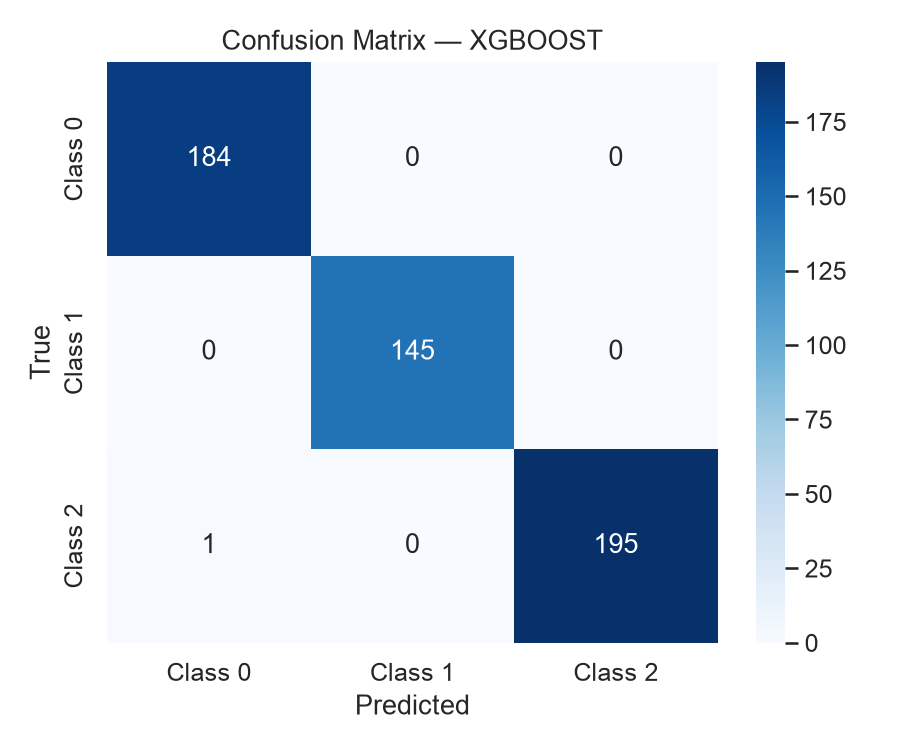
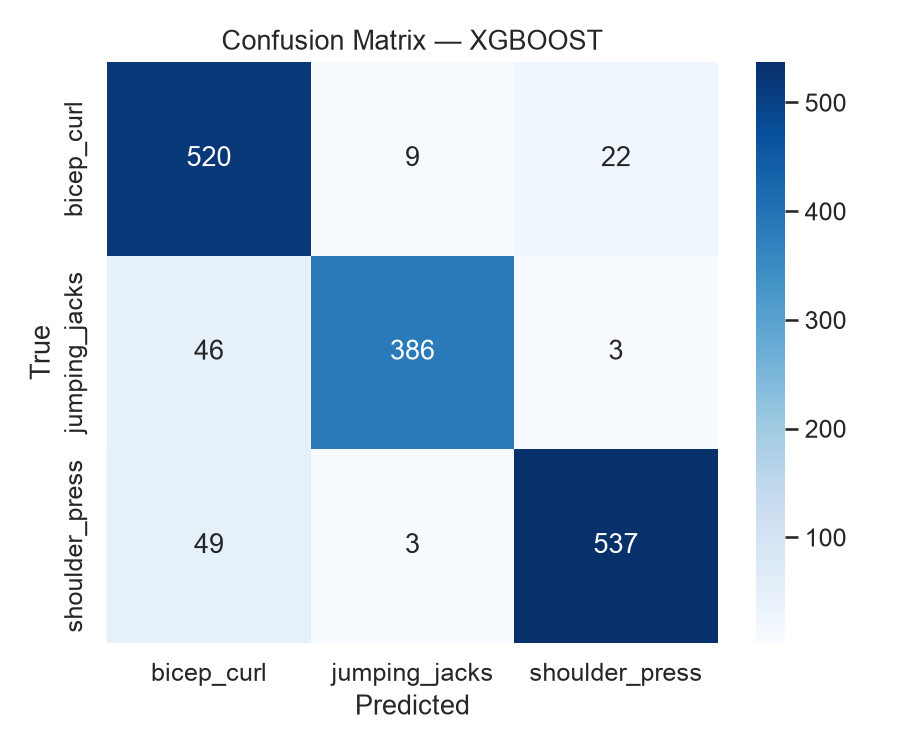
ADD augmentation proves model performance.

diff --git a/src/evaluation/model_performance.py b/src/evaluation/model_performance.py
@@ -3,6 +3,7 @@
 import pickle, warnings
 from pathlib import Path
 import matplotlib
+from sklearn.model_selection import train_test_split
 matplotlib.use("Agg")
 import matplotlib.pyplot as plt
 import numpy as np
@@ -74,101 +75,35 @@ if __name__ == "__main__":
     from src.data.windowing import create_windows
     from src.features.features import extract_features, add_magnitude_features
     from src.train_classical import train_xgboost, train_random_forest
-    from sklearn.preprocessing import LabelEncoder
-
-    # Load and process data (same pipeline as train_classical.py)
+    from src.features.augmentation import augment_dataset
+    from src.evaluation.compare_groups import evaluate_per_participant
+    
     df = load_data()
-    windows, labels_arr, meta = create_windows(df)
-    feat_df, _ = extract_features(add_magnitude_features(windows), fs=100.0)
-    print(f"Feature matrix: {feat_df.shape}")
+    windows, labels, meta = create_windows(df)
 
-    # Prepare labels, features, and participant array
-    participants = sorted(np.unique(meta["participants"]))
-    class_names = sorted(np.unique(meta["exercises"]))
-    le = LabelEncoder()
-    y_all = le.fit_transform(meta["exercises"])
-    X_all = feat_df.values.astype(np.float32)
-    p_array = meta["participants"]
+    # Track original size before augmentation so we can replicate metadata
+    n_orig = len(windows)
+    windows, labels = augment_dataset(windows, labels, augment_factor=2, seed=42)
+    factor = len(windows) // n_orig  # e.g. 3 (original + 2 augmented copies)
 
-    print(f"Participants: {participants}")
-    print(f"Classes: {class_names}")
-    print(f"Total samples: {len(X_all)}\n")
+    # Augment metadata arrays to stay aligned with the multiplied windows
+    for key in ["participants", "exercises"]:
+        meta[key] = np.concatenate([meta[key]] * factor)
 
-    # Leave-one-participant-out evaluation
-    all_preds: dict[str, list[int]] = {"xgboost": [], "random_forest": []}
-    all_trues: dict[str, list[int]] = {"xgboost": [], "random_forest": []}
+    feat_df, feat_names = extract_features(add_magnitude_features(windows), fs=100.0)
 
-    for test_p in participants:
-        mask = p_array != test_p
-        X_tr, X_te = X_all[mask], X_all[~mask]
-        y_tr, y_te = y_all[mask], y_all[~mask]
-        print(f"{'='*60}")
-        print(f"  Hold-out participant: {test_p}")
-        print(f"  Train: {len(X_tr)} samples, Test: {len(X_te)} samples")
-        print(f"{'='*60}")
+    # Per-participant evaluation with augmented data
+    per_participant_df = evaluate_per_participant(feat_df, meta["exercises"],
+                                                   meta["participants"], search_iter=5)
 
-        for name, fn, iters in [("xgboost", train_xgboost, 20),
-                                 ("random_forest", train_random_forest, 10)]:
-            model, _ = fn(X_tr, y_tr, iters)
-            preds = model.predict(X_te)
-            all_preds[name].extend(preds.tolist())
-            all_trues[name].extend(y_te.tolist())
+    # Random-split evaluation with augmented data
+    X_train, X_test, y_train, y_test = train_test_split(
+        feat_df.values.astype(np.float32), labels, test_size=0.2,
+        random_state=42, stratify=labels)
 
-            report = classification_report(y_te, preds, target_names=class_names,
-                                            output_dict=True, zero_division=0)
-            print(f"\n  {name.upper()}:")
-            print(f"  {'Class':<20s} {'Prec':>8s} {'Rec':>8s} {'F1':>8s} {'Supp':>8s}")
-            print(f"  {'-'*52}")
-            for cls in class_names:
-                r = report[cls]
-                print(f"  {cls:<20s} {r['precision']:>8.3f} {r['recall']:>8.3f}"
-                      f" {r['f1-score']:>8.3f} {r['support']:>8.0f}")
-        print()
-
-    # Aggregate results across all folds
-    print(f"\n{'='*60}")
-    print("  AGGREGATED RESULTS (all held-out folds combined)")
-    print(f"{'='*60}")
-    results = {}
-    for name in ["xgboost", "random_forest"]:
-        y_true = np.array(all_trues[name])
-        y_pred = np.array(all_preds[name])
-        print(f"\n  {name.upper()}:")
-        print(f"  Accuracy: {accuracy_score(y_true, y_pred):.4f}"
-              f"  F1 (wgt): {f1_score(y_true, y_pred, average='weighted'):.4f}")
-        print(f"  {'Class':<20s} {'Prec':>8s} {'Rec':>8s} {'F1':>8s} {'Supp':>8s}")
-        print(f"  {'-'*52}")
-        report = classification_report(y_true, y_pred, target_names=class_names,
-                                        output_dict=True, zero_division=0)
-        for cls in class_names:
-            r = report[cls]
-            print(f"  {cls:<20s} {r['precision']:>8.3f} {r['recall']:>8.3f}"
-                  f" {r['f1-score']:>8.3f} {r['support']:>8.0f}")
-        results[name] = {"accuracy": accuracy_score(y_true, y_pred),
-                         "f1_weighted": f1_score(y_true, y_pred, average="weighted"),
-                         "f1_macro": f1_score(y_true, y_pred, average="macro")}
-
-    # Confusion matrices from aggregated (participant-aware) predictions
-    for name in ["xgboost", "random_forest"]:
-        y_true = np.array(all_trues[name])
-        y_pred = np.array(all_preds[name])
-        cm = confusion_matrix(y_true, y_pred, labels=range(len(class_names)))
-        fig, ax = plt.subplots(figsize=(6, 5))
-        sns.heatmap(cm, annot=True, fmt="d", cmap="Blues",
-                    xticklabels=class_names, yticklabels=class_names, ax=ax)
-        ax.set_title(f"Confusion Matrix — {name.upper()} (participant-aware)")
-        ax.set_xlabel("Predicted")
-        ax.set_ylabel("True")
-        path = FIGURE_DIR / f"confusion_matrix_{name}_participant_aware.png"
-        fig.tight_layout()
-        fig.savefig(path, dpi=150)
-        plt.close(fig)
-        print(f"  Saved participant-aware confusion matrix: {path}")
-
-    print(f"\n{'='*60}")
-    print("  SUMMARY")
-    print(f"{'='*60}")
-    for model_name, metrics in results.items():
-        print(f"  {model_name}: Accuracy={metrics['accuracy']:.4f},"
-              f" F1 (weighted)={metrics['f1_weighted']:.4f},"
-              f" F1 (macro)={metrics['f1_macro']:.4f}")
+    xgb_model, _ = train_xgboost(X_train, y_train, search_iter=10)
+    models = {"xgboost": xgb_model}
+    unique_class_names = sorted(np.unique(meta["exercises"]))
+    evaluate_models(models, X_test, y_test, class_names=unique_class_names)
+    plot_confusion_matrices(models, X_test, y_test, class_names=unique_class_names)
+    